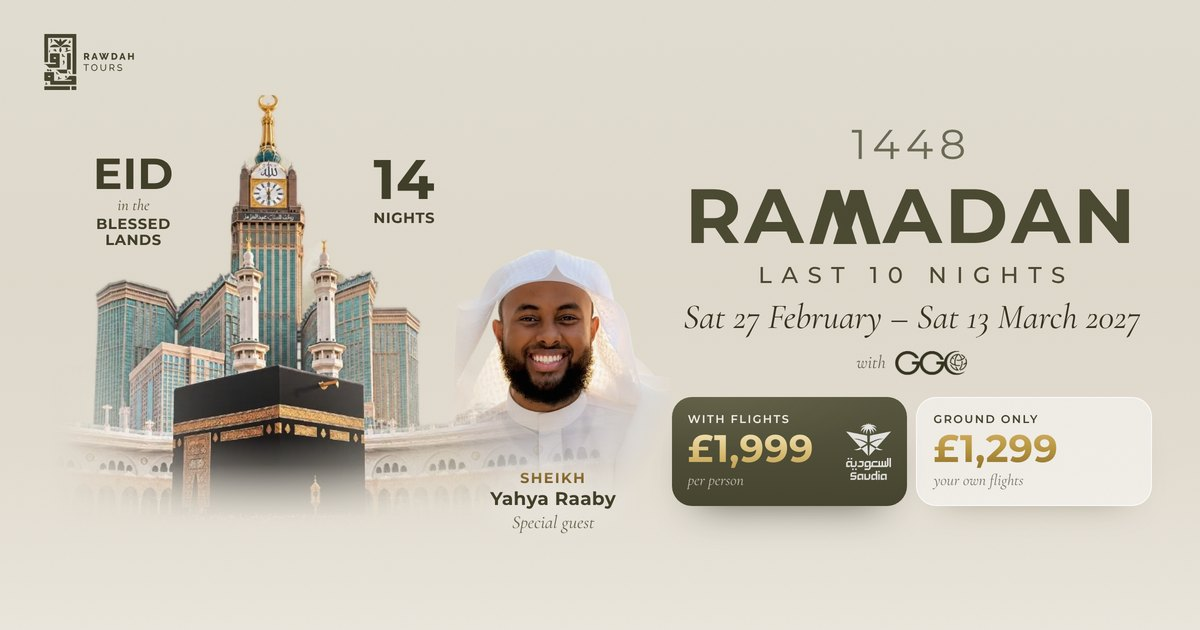
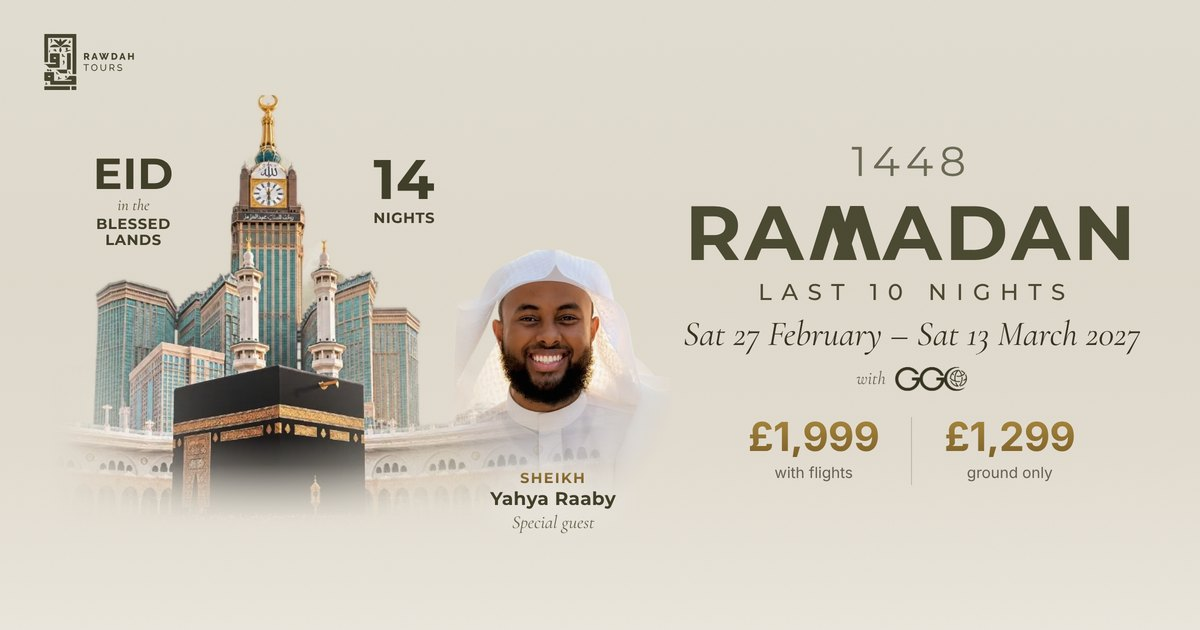
The simpler hero, with Sheikh Yahya kept in it; the comparison switch and the price tiles out
The artwork with Sheikh Yahya, the lettering, one gold price line and the gold
button. Link preview remade to match.

Claude-Session: https://claude.ai/code/session_013xXjSaaGAVLX8VaZzFTHcm

Changed region(s): [[0.555, 0.2111, 0.9558, 0.8444], [0.8633, 0.7841, 0.8942, 0.8143]]

diff --git a/src/app/globals.css b/src/app/globals.css
@@ -1707,31 +1707,9 @@ html.motion .fb-item.rv.in .fb-text { opacity: 1; transform: none; }
 .rl-tablet-nights { left: 50.4%; top: 13%; }
 .rl-tablet-nights b { font-size: 9.5cqw; }
 .rl-foot { grid-area: foot; display: grid; grid-template-columns: minmax(0, 1fr); justify-items: center; width: 100%; max-width: 34rem; min-width: 0; box-sizing: border-box; }
-/* The two prices: the same shape each, the figures in gold (key points); with flights on the poster's olive with Saudia's
-   mark, ground only on stone. Both open the booking (ground only on ground only). Then the one gilt button. */
+/* The price line and the one gilt button under it. */
 .rl-buy { display: grid; grid-template-columns: minmax(0, 1fr); justify-items: center; gap: 0.9rem; width: 100%; margin-top: 1.3rem; }
-.rl-offer { display: grid; grid-template-columns: minmax(0, 1fr) minmax(0, 1fr); gap: 0.6rem; width: 100%; }
-.rl-tile { position: relative; display: flex; align-items: center; justify-content: space-between; gap: 0.5rem; min-height: 6.6rem; padding: 0.95rem 1rem; border-radius: 1.25rem; text-align: left; transition: transform 0.25s var(--ease-out), box-shadow 0.25s; }
-.rl-tile:hover { transform: translateY(-1px); }
-.rl-tile-words { display: grid; line-height: 1.05; }
-.rl-k { font-family: var(--font-display); font-size: 0.7rem; font-weight: 600; letter-spacing: 0.14em; text-transform: uppercase; }
-.rl-price { margin-top: 0.3rem; font-family: var(--font-display); font-size: clamp(1.75rem, 7.6vw, 2.4rem); font-weight: 700; letter-spacing: 0.005em; line-height: 1; -webkit-background-clip: text; background-clip: text; color: transparent; -webkit-text-fill-color: transparent; }
-.rl-sub { margin-top: 0.3rem; font-family: var(--font-editorial, "Cormorant Garamond", Georgia, serif); font-size: 0.98rem; font-style: italic; }
-.rl-ended { margin-bottom: 0.2rem; font-size: 0.78rem; opacity: 0.6; text-decoration-thickness: 1px; }
-.rl-flights { color: #f1eee6; background: radial-gradient(120% 90% at 20% 0%, rgb(255 236 180 / 0.08) 0%, transparent 60%), linear-gradient(180deg, #57563f 0%, #45442e 100%); box-shadow: 0 22px 40px -26px rgb(37 36 24 / 0.75); }
-.rl-flights .rl-price { background-image: linear-gradient(180deg, #f6e8bb 0%, #dcbf76 60%, #c4a254 100%); }
-.rl-flights .rl-sub { color: rgb(241 238 230 / 0.72); }
-.rl-saudia { width: 2.4rem; height: auto; flex: none; filter: brightness(0) invert(1); opacity: 0.85; }
-.rl-k { white-space: nowrap; }
-/* Ground only keeps its light tile; its figure takes the gold of the with-flights one (Jibril, 20 Nov 2026: "the button
-   to be the same, just the gold writing"), a step deeper at its foot so it still reads on stone. */
-.rl-ground { color: #45442e; background: rgb(255 255 255 / 0.5); border: 1px solid rgb(255 255 255 / 0.85); box-shadow: 0 18px 34px -28px rgb(60 48 20 / 0.5); }
-.rl-ground .rl-price { background-image: linear-gradient(180deg, #d2b162 0%, #b8963f 50%, #94742f 100%); }
-.rl-ground .rl-sub { color: rgb(51 50 31 / 0.66); }
 .rl-book { display: inline-flex; width: 100%; min-height: 3.4rem; align-items: center; justify-content: center; gap: 0.5rem; border-radius: 1rem; font-size: 1rem; font-weight: 500; }
-.rl-note { display: flex; flex-wrap: wrap; justify-content: center; font-size: 0.86rem; line-height: 1.5; color: rgb(from var(--color-ink) r g b / 0.7); }
-@media (max-width: 23.99rem) { .rl-saudia { display: none; } }
-@media (min-width: 64rem) { .rl-saudia { width: 2.8rem; } }
 .rl .rh-price { justify-items: center; }
 .rl .poster-lockup { color: #4a4931; }
 .rl .poster-lockup .poster-kicker { color: #6b6a55; }
@@ -1792,7 +1770,7 @@ html.motion .fb-item.rv.in .fb-text { opacity: 1; transform: none; }
 .skin-1448 .stay-plate[aria-pressed="true"] { box-shadow: 0 0 0 2px #ece8df; }
 /* The booking panel's main button is a key point too. */
 .skin-1448 #join .btn-ink { background: linear-gradient(180deg, #efdfaa 0%, #d8ba6e 46%, #b99749 100%); color: #2b2a1a; box-shadow: inset 0 1px 0 rgb(255 255 255 / 0.55), inset 0 -1px 0 rgb(120 92 40 / 0.35), 0 14px 30px -16px rgb(84 66 24 / 0.6); }
-/* --- The simpler hero (?hero default while comparing, 21 Nov 2026) ----------------------------------------------------
+/* --- The simpler hero (21 Nov 2026, chosen with Sheikh Yahya kept in it) ------------------------------------------------
    The artwork alone, the lettering, and one line with the two prices in gold, each a link (ground only opens the
    booking on ground only), a hairline between them; then the gold button. */
 .rl-line { display: flex; justify-content: center; align-items: stretch; margin: 0.2rem 0 0.3rem; }
@@ -1805,7 +1783,7 @@ html.motion .fb-item.rv.in .fb-text { opacity: 1; transform: none; }
 
 /* --- Liquid glass on the floating parts (21 Nov 2026: "liquid glass… on the buttons… more premium") --------------------
    Only what floats over the page: the header, the phone's bottom bar, the sticky navigator, the round phone buttons,
-   the WhatsApp outlines and the ground-only price tile. Each is a frosted pane (blur and a lift in colour from what's
+   and the WhatsApp outlines. Each is a frosted pane (blur and a lift in colour from what's
    behind), a bright top edge, a fainter side edge and a soft shadow, like Apple's glass. Safari has no refraction on
    the web, so this is the frosted version everywhere. The gold Book button stays solid: it's the one to press. */
 :root[data-skin="1448"] header.top-zone {
@@ -1840,7 +1818,7 @@ html.motion .fb-item.rv.in .fb-text { opacity: 1; transform: none; }
   box-shadow: inset 0 1px 0 rgb(255 255 255 / 0.7), 0 10px 28px -22px rgb(40 38 24 / 0.5);
 }
 .skin-1448 .garden-path [data-state="here"] a { background: linear-gradient(180deg, rgb(255 255 255 / 0.85) 0%, rgb(255 255 255 / 0.55) 100%); box-shadow: inset 0 1px 0 rgb(255 255 255 / 0.95), inset 0 0 0 1px rgb(255 255 255 / 0.5), 0 6px 16px -10px rgb(60 48 20 / 0.45); }
-.skin-1448 .rl-ground, .skin-1448 .wa-btn {
+.skin-1448 .wa-btn {
   background: linear-gradient(180deg, rgb(255 255 255 / 0.62) 0%, rgb(255 255 255 / 0.32) 100%);
   -webkit-backdrop-filter: blur(16px) saturate(170%); backdrop-filter: blur(16px) saturate(170%);
   border: 1px solid rgb(255 255 255 / 0.75);

diff --git a/src/app/_site/poster-hero.tsx b/src/app/_site/poster-hero.tsx
@@ -108,17 +108,16 @@ export function FeatureBand({ perks }: { perks: Perk[] }) {
  * the price should be golden… ground package on the hero as well… gold in key points"). The poster's artwork on one
  * side, our words in its tablets (Eid in the blessed lands, 14 nights) and Sheikh Yahya standing in it; on the other the
  * lettering as the poster sets it, in olive (1448, RAMADAN, LAST 10 NIGHTS), the dates in the italic and "with GGC".
- * Then the two prices side by side, the same shape each, the figures in gold: with flights (with Saudia's mark) and
- * ground only (it opens the booking on ground only), and one gilt button. No line of copy: the poster says it.
+ * Then one line with the two prices in gold over their labels, each a link (ground only opens the booking on ground
+ * only), and the gilt button. Simpler since 21 Nov 2026 ("the hero should be one photo and no extra stuff", but
+ * "Yahya Raaby must be in the hero"): no price tiles, no Saudia mark, no early bird, no small print under the button.
  * Phones: the lettering, the artwork, then the prices and the button.
- * `simple` (21 Nov 2026: "the hero should be one photo and no extra stuff"): the artwork alone, without Sheikh Yahya
- * (he has his own section), and one price line instead of the two tiles; no small print under the button.
  */
-export function LockupHero({ j, guest, price, ended, ground, deposit, payments, joinLabel, simple = false }: Buy & { guest?: Person; simple?: boolean }) {
-  const withGuest = Boolean(j.heroGuest && guest) && !simple;
+export function LockupHero({ j, guest, price, ground, joinLabel }: Buy & { guest?: Person }) {
+  const withGuest = Boolean(j.heroGuest && guest);
   const dates = j.dates.value.replace(/\bFeb\b/, "February").replace(/\bMar\b/, "March");
   return (
-    <section className={`rl wash-hero relative overflow-hidden ${simple ? "rl-simple" : ""}`}>
+    <section className="rl rl-simple wash-hero relative overflow-hidden">
       <Emblem className="rl-mark watermark pointer-events-none absolute" />
       <div className="rl-grid">
         <div className={`rl-head ${gutter}`}>
@@ -162,7 +161,7 @@ export function LockupHero({ j, guest, price, ended, ground, deposit, payments, 
         <div className={`rl-foot ${gutter}`}>
           {/* `.ph-buy`: the phone bar waits until this has scrolled away (page-watch.tsx). */}
           <div style={at(860)} className="ph-buy rl-buy follow">
-            {simple && price ? (
+            {price ? (
               <p className="rl-line">
                 <a href={`#${anchors.join}`} className="rl-line-item">
                   <strong className="rl-line-price">{price}</strong>
@@ -175,41 +174,10 @@ export function LockupHero({ j, guest, price, ended, ground, deposit, payments, 
                   </a>
                 ) : null}
               </p>
-            ) : price ? (
-              <div className="rl-offer">
-                <a href={`#${anchors.join}`} className="rl-tile rl-flights">
-                  <span className="rl-tile-words">
-                    {ended ? <s className="rl-ended">{ended}</s> : null}
-                    <span className="rl-k">With flights</span>
-                    <strong className="rl-price">{price}</strong>
-                    <span className="rl-sub">per person</span>
-                  </span>
-                  <Image src="/images/brand/partners/saudia.png" alt="Saudia" width={246} height={311} className="rl-saudia" />
-                </a>
-                {ground ? (
-                  <a href={`#${anchors.join}`} data-pick="ground" className="rl-tile rl-ground">
-                    <span className="rl-tile-words">
-                      <span className="rl-k">Ground only</span>
-                      <strong className="rl-price">{ground}</strong>
-                      <span className="rl-sub">your own flights</span>
-                    </span>
-                  </a>
-                ) : null}
-              </div>
             ) : null}
             <a href={`#${anchors.join}`} className="btn-gilt rl-book">
               {joinLabel} <Chevron dir="down" className="size-3 opacity-70" />
             </a>
-            {!simple && (deposit || j.heroNote) ? (
-              <p className="rl-note">
-                                {[...(deposit ? [`${deposit} deposit${payments ? `, then ${payments} payments` : ""}`] : []), ...(j.heroNote ? j.heroNote.split(" · ") : [])].map((part, i, arr) => (
-                  <span key={part} className="whitespace-nowrap">
-                    {part}
-                    {i < arr.length - 1 ? <span aria-hidden>{"\u00a0·\u00a0"}</span> : null}
-                  </span>
-                ))}
-              </p>
-            ) : null}
           </div>
         </div>
       </div>

diff --git a/src/app/(site)/trips/[slug]/page.tsx b/src/app/(site)/trips/[slug]/page.tsx
@@ -90,18 +90,16 @@ function Itinerary({ j }: { j: Journey }) {
  * Day: what's included, the people and paying (Umrah), questions, Hajj
  * updates, and the register-interest form.
  */
-export default async function TripPage({ params, searchParams }: { params: Promise<{ slug: string }>; searchParams: Promise<{ hero?: string }> }) {
-  /** To compare (21 Nov 2026): the simpler hero by default, ?hero=full for the current one. Comes out once Jibril picks. */
-  const hero = (await searchParams)?.hero === "full" ? "full" : "simple";
+export default async function TripPage({ params }: { params: Promise<{ slug: string }> }) {
   const { slug } = await params;
   const j = journey(slug);
   if (!j || j.state === "past") notFound();
   if (j.slug === "ramadan-umrah-2027" && !ramadanReveal) return <ComingSoonTrip j={j} />;
-  return <TripView j={j} hero={hero} />;
+  return <TripView j={j} />;
 }
 
 /** The full trip page. Also used by the private Ramadan preview (preview/page.tsx). */
-export function TripView({ j, hero = "full" }: { j: Journey; hero?: "simple" | "full" }) {
+export function TripView({ j }: { j: Journey }) {
 
   const trip = j.bookingSlug ? getTrip(j.bookingSlug) : undefined;
   const bookable = Boolean(trip && isBookable(trip) && j.state === "open");
@@ -175,7 +173,7 @@ export function TripView({ j, hero = "full" }: { j: Journey; hero?: "simple" | "
       <TripPhoneBar j={j} price={price} deposit={trip?.pricing ? trip.pricing.depositPence / 100 : null} bookable={bookable} />
       {j.posterType ? (
         <Chapter tone="day">
-          <LockupHero {...buy} simple={hero === "simple"} />
+          <LockupHero {...buy} />
         </Chapter>
       ) : (
       <Chapter tone="top">

diff --git a/docs/adr/0006-the-garden.md b/docs/adr/0006-the-garden.md
@@ -301,8 +301,9 @@ try first:
   Segoe on Windows), replacing DM Sans; labels, prices and small capitals too. Two families now: Cormorant for
   headings, the system font for the rest; Montserrat only in the poster lettering. SF is never hosted (Apple's licence
   allows it only for UI mock-ups), and the page downloads one font file fewer.
-- **A simpler hero, to compare** (`LockupHero simple`): the artwork alone (Sheikh Yahya in his own section), the
-  lettering, one line with both prices in gold over their labels, and the gold button; no small print. The current
-  hero stays at `?hero=full` while comparing; the switch comes out once Jibril picks.
+- **A simpler hero** (chosen the same day, with one change: "Yahya Raaby must be in the hero"): the artwork with Sheikh
+  Yahya standing in it, the lettering, one line with both prices in gold over their labels (each a link; ground only
+  opens the booking on ground only), and the gold button. Cut: the two price tiles, the Saudia mark, the early bird and
+  the small print under the button. The comparison switch is gone; the link preview was remade to match.
 - **Later**: restyle the other pages and switch one-page mode off after the Ramadan push; sharper photos from Rawdah or
   a shoot; Paper for mock-ups if wanted. 21st MCP set aside (ready-made components look templated).

diff --git a/docs/design-system.md b/docs/design-system.md
@@ -189,7 +189,8 @@ script in `app/layout.tsx` sets before first paint unless the visitor prefers re
   button identity (gilt main, stone outline with WhatsApp's mark, text links); repeats cut (ADR 0006).
   Twelfth pass (21 Nov 2026): liquid glass on the floating parts only (header, phone bar, garden path, round phone
   buttons, WhatsApp outlines, the ground-only tile): frosted blur and saturate, a bright top edge, a soft shadow; the
-  gold Book button stays solid. A simpler hero to compare (`LockupHero simple`). In one-page
+  gold Book button stays solid. A simpler hero: the artwork with Sheikh Yahya, the lettering, one gold price line
+  (`.rl-line`), the gold button. In one-page
   mode the whole site wears the poster: `<html data-skin="1448">` turns the top strip, header and footer from cocoa
   to the poster's olive and stone, the logo stone, and the browser bar olive (`layout.tsx`, `globals.css`). One-page header: call, logo, WhatsApp on
   phones; the trip, logo, WhatsApp and "Book your place" on desktop (`src/lib/site-mode.ts`); what's included as photo cards (`IncludedCards`, `plan.cards`; the hotels card says room only and breakfast, so no tick list repeats it under the cards, `perksAlso: []`; "Photo to come" frames until Jibril
